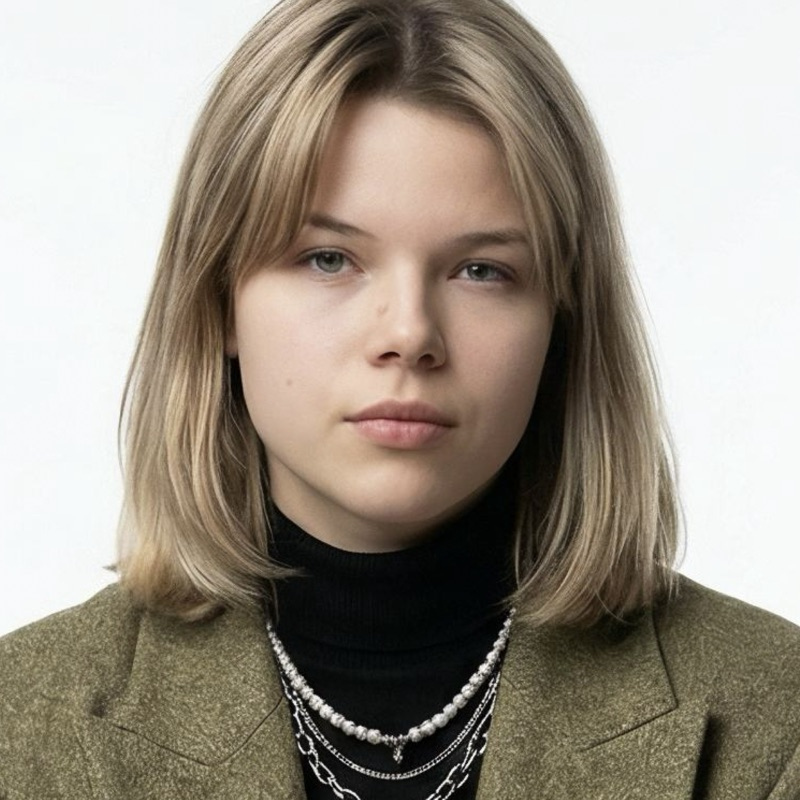
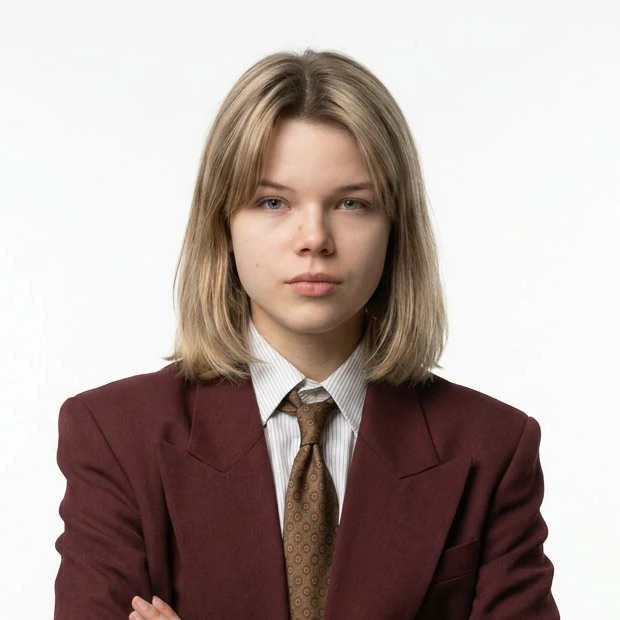
«Путь героя»: новое фото в пузыре

diff --git a/index.html b/index.html
@@ -151,7 +151,7 @@
         <button class="showcase__close orbit__close" type="button" aria-label="Закрыть окно" data-journey-close data-glass-lens data-glass-round data-glass-bezel="30" data-glass-scale="40"><span aria-hidden="true">x</span></button>
         <div class="cv-photo" id="cv-photo" aria-hidden="true">
           <div class="cv-photo__bubble">
-            <img src="./assets/about/photo.jpg" alt="" width="800" height="800" loading="lazy" decoding="async" />
+            <img src="./assets/about/photo.jpg?v=3" alt="" width="800" height="800" loading="lazy" decoding="async" />
             <span class="orbit__glass" data-glass-round data-glass-id="cv-photo"></span>
           </div>
         </div>
